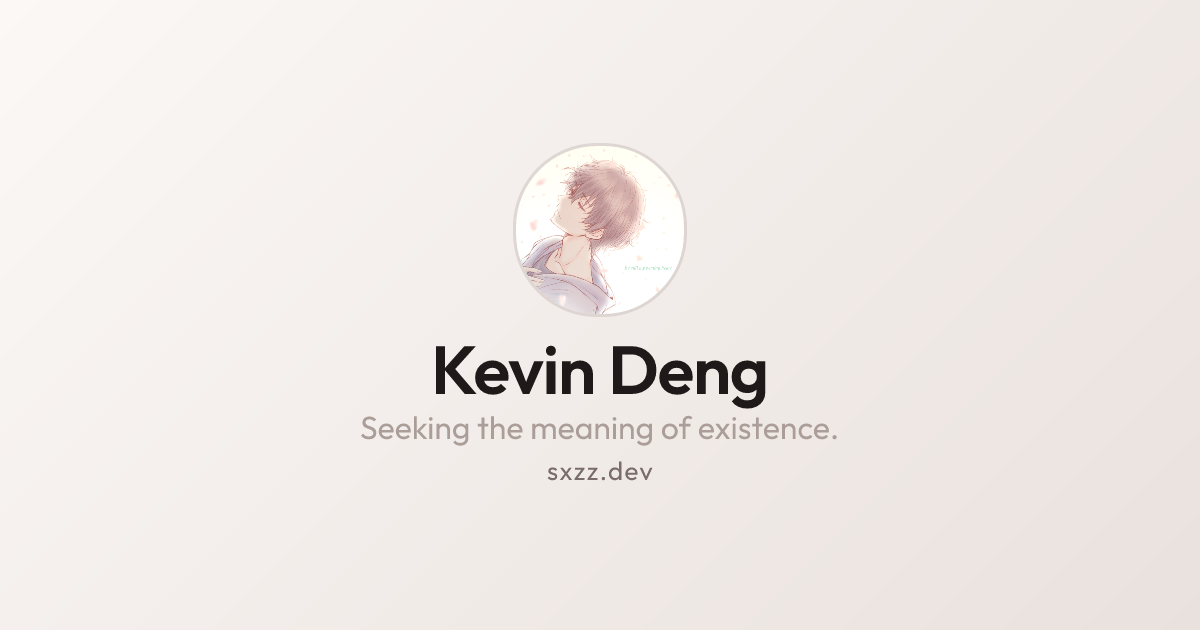
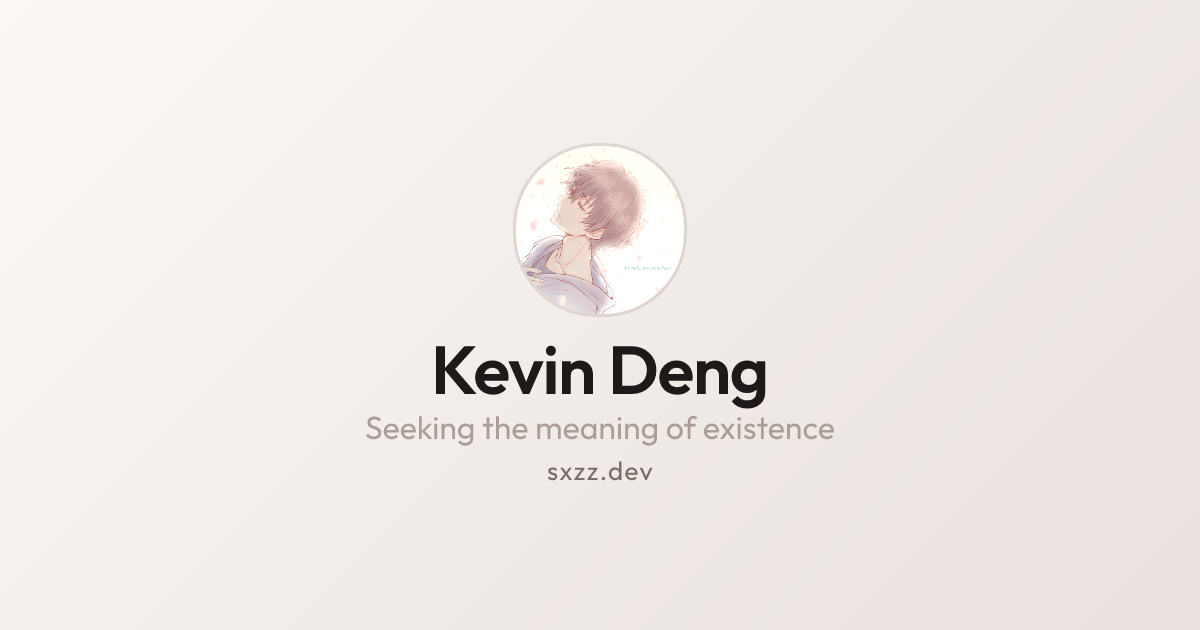
style: drop trailing period from standalone bio

Changed region(s): [[0.2775, 0.6635, 0.7092, 0.7238]]

diff --git a/src/i18n/pages.ts b/src/i18n/pages.ts
@@ -68,7 +68,7 @@ export const pageCopy: PageCopy = {
     en: {
       title: `${authorName.en} - ${authorTagline.en}`,
       description:
-        `${authorName.en}. ${authorTagline.en} Creator of tsdown, Vue Macros, and Elk. Core team member of Vue, Vite, and more.`,
+        `${authorName.en}. ${authorTagline.en}. Creator of tsdown, Vue Macros, and Elk. Core team member of Vue, Vite, and more.`,
       name: authorName.en,
       avatar: {
         avif: '/avatar.avif',
@@ -84,7 +84,7 @@ export const pageCopy: PageCopy = {
     zh: {
       title: `${authorName.zh} - ${authorTagline.zh}`,
       description:
-        `${authorName.zh}，${authorTagline.zh}tsdown、Vue Macros 与 Elk 的作者，Vue、Vite 等项目核心成员。`,
+        `${authorName.zh}，${authorTagline.zh}。tsdown、Vue Macros 与 Elk 的作者，Vue、Vite 等项目核心成员。`,
       name: authorName.zh,
       avatar: {
         avif: '/avatar-zh.avif',
@@ -101,12 +101,12 @@ export const pageCopy: PageCopy = {
   about: {
     en: {
       title: `About - ${authorName.en}`,
-      description: `About ${authorName.en}. ${authorTagline.en}`,
+      description: `About ${authorName.en}. ${authorTagline.en}.`,
       heading: 'About',
     },
     zh: {
       title: `关于 - ${authorName.zh}`,
-      description: `关于${authorName.zh}。${authorTagline.zh}`,
+      description: `关于${authorName.zh}。${authorTagline.zh}。`,
       heading: '关于',
     },
   },

diff --git a/src/data/site.ts b/src/data/site.ts
@@ -25,8 +25,8 @@ export const siteCopy = {
       zh: '智子',
     },
     tagline: {
-      en: 'Seeking the meaning of existence.',
-      zh: '探寻存在的意义。',
+      en: 'Seeking the meaning of existence',
+      zh: '探寻存在的意义',
     },
     sameAs: {
       en: [
